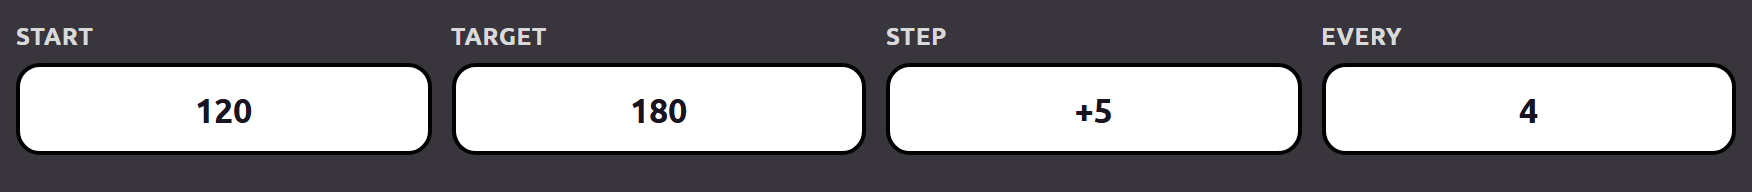
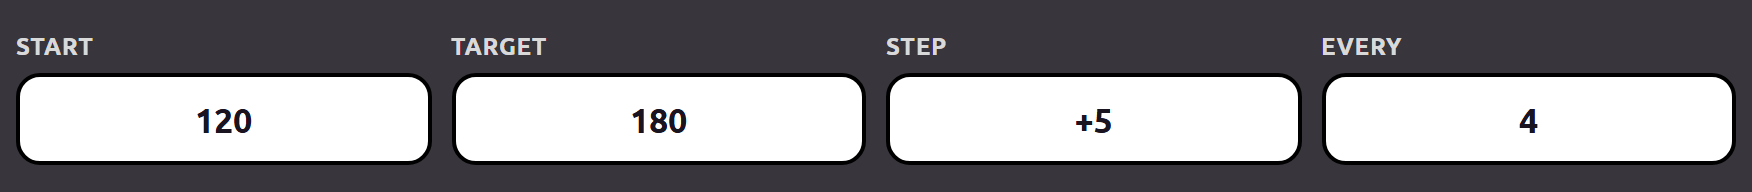
Tutorial: add-your-own capture + card image; engine: dim-into-written-forte plays subito (m30 fix shipped via vault)

diff --git a/404.html b/404.html
@@ -95,7 +95,7 @@
         #boot.is-leaving img { transform: none; }
       }
     </style>
-    <script type="module" crossorigin src="/assets/index-BUNhrerO.js"></script>
+    <script type="module" crossorigin src="/assets/index-BmHs4xJF.js"></script>
     <link rel="stylesheet" crossorigin href="/assets/index-_e45Q4Vf.css">
   </head>
   <body>

diff --git a/index.html b/index.html
@@ -95,7 +95,7 @@
         #boot.is-leaving img { transform: none; }
       }
     </style>
-    <script type="module" crossorigin src="/assets/index-BUNhrerO.js"></script>
+    <script type="module" crossorigin src="/assets/index-BmHs4xJF.js"></script>
     <link rel="stylesheet" crossorigin href="/assets/index-_e45Q4Vf.css">
   </head>
   <body>